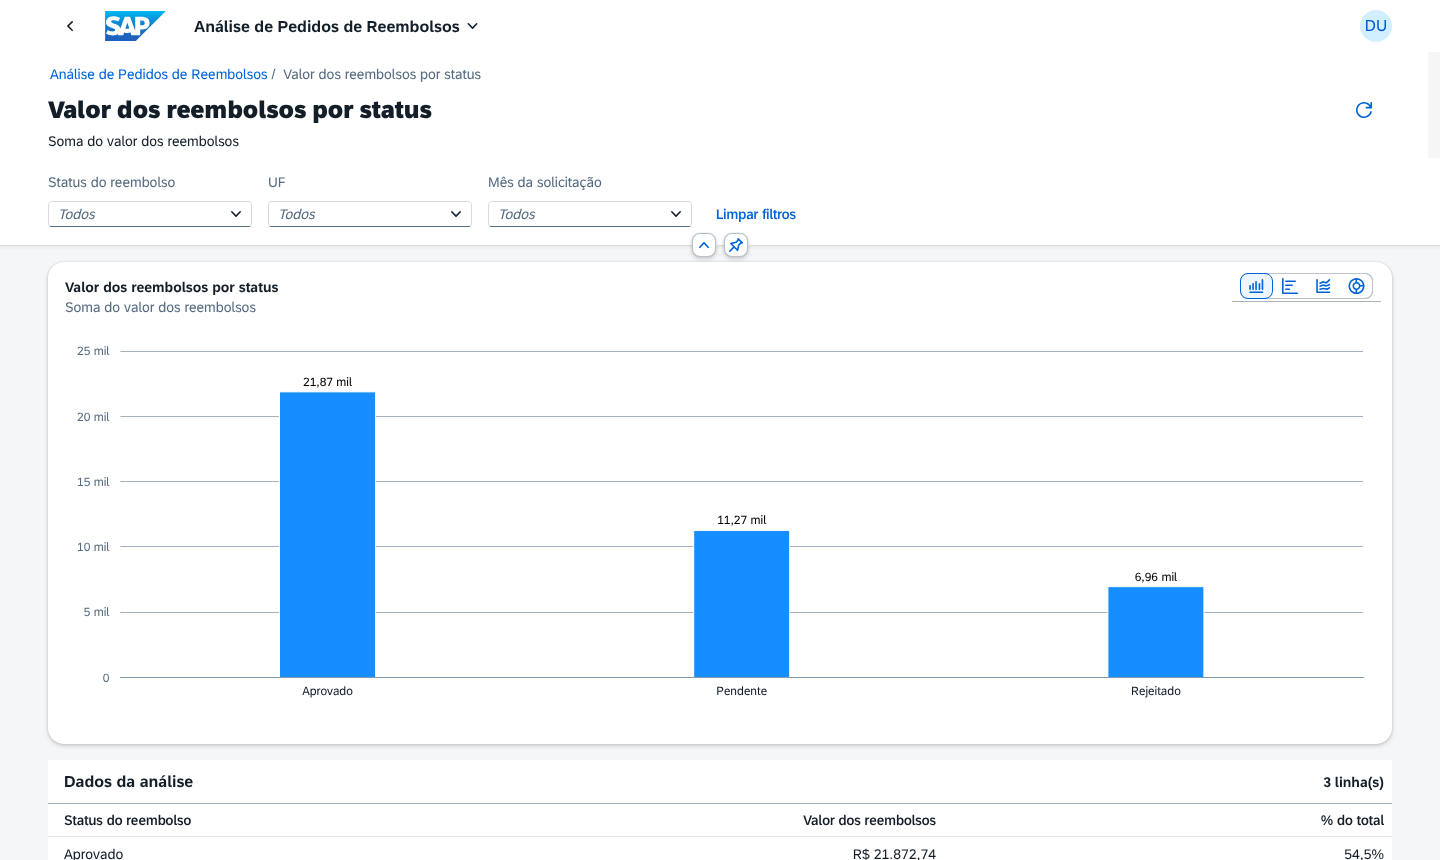
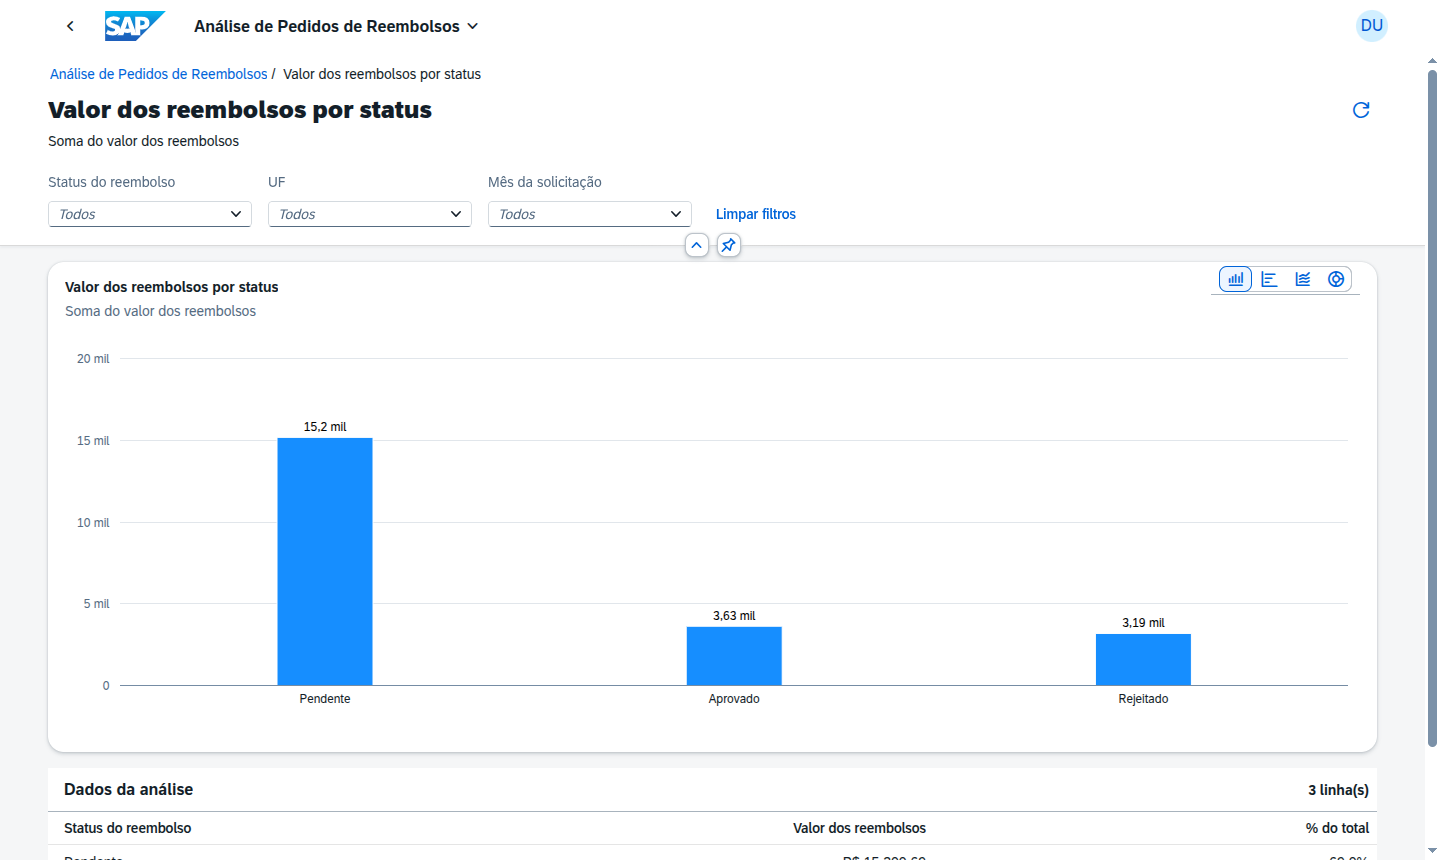
docs: capturas das análises com dados reais e demonstração completa
Capturas dos quatro painéis de análise e de um detalhe com os dados
reais do SAP BTP, ABAP environment. A seção "Demonstração" do README
passa a mostrar os fluxos executados: cadastro de cliente com ViaCEP,
item de estoque, pedido do rascunho à finalização, cancelamento com
pagamento aprovado, decisão do reembolso e as análises.

diff --git a/README.md b/README.md
@@ -102,29 +102,58 @@ On-Premise completo, com limitações e checklist, está na
 
 ## Demonstração
 
-Telas capturadas no [launchpad local](#launchpad-local) (`ui5/launchpad`). As apps de gestão usam os
-dados reais do sistema BTP ABAP (dados de demonstração do `ZCL_PC_SETUP`); as de análise, os dados
-de demonstração do `npm run start-mock`.
+Telas capturadas no [launchpad local](#launchpad-local) (`ui5/launchpad`) com os **dados reais do SAP BTP,
+ABAP environment** (dados de demonstração do `ZCL_PC_SETUP`), executando os fluxos completos das apps.
 
 <p align="center">
   <img src="assets/launchpad.png" alt="Launchpad local com os oito tiles: quatro de gestão e quatro de análise" width="900">
 </p>
 
-| Pedidos de Compras | Object Page do pedido |
-| :----------------: | :-------------------: |
-| <img src="assets/pedidos.png" alt="Lista de pedidos" width="440"> | <img src="assets/pedido-object-page.png" alt="Object Page de um pedido finalizado" width="440"> |
+### Gestão de Clientes: cadastro com consulta ao ViaCEP
 
-| Gestão de Clientes | Gestão de Estoque |
-| :----------------: | :---------------: |
-| <img src="assets/clientes.png" alt="Lista de clientes" width="440"> | <img src="assets/estoque.png" alt="Lista de itens de estoque" width="440"> |
+| Lista de clientes | Endereço preenchido pelo ViaCEP | Cliente cadastrado |
+| :---------------: | :-----------------------------: | :----------------: |
+| <img src="assets/clientes.png" alt="Lista de clientes" width="290"> | <img src="assets/cliente-endereco-viacep.png" alt="Endereço do CEP 01310-100 preenchido pelo ViaCEP" width="290"> | <img src="assets/cliente-object-page.png" alt="Object Page da cliente cadastrada" width="290"> |
 
-| Gestão de Reembolsos | Análise de Itens do Estoque |
-| :------------------: | :-------------------------: |
-| <img src="assets/reembolsos.png" alt="Lista de reembolsos" width="440"> | <img src="assets/analise-estoque.png" alt="Painel da Análise de Itens do Estoque" width="440"> |
+### Gestão de Estoque
 
-| Análise de Pedidos de Reembolsos | Detalhe de uma análise |
-| :------------------------------: | :--------------------: |
-| <img src="assets/analise-reembolsos.png" alt="Painel da Análise de Pedidos de Reembolsos" width="440"> | <img src="assets/analise-detalhe.png" alt="Detalhe da análise Valor dos reembolsos por status" width="440"> |
+| Lista de itens | Item cadastrado (SKU gerado no Save) |
+| :------------: | :----------------------------------: |
+| <img src="assets/estoque.png" alt="Lista de itens de estoque" width="440"> | <img src="assets/item-object-page.png" alt="Object Page do item cadastrado" width="440"> |
+
+### Pedidos de Compras: do rascunho à finalização
+
+| Lista de pedidos | Rascunho com itens inline | Efetuar Pagamento |
+| :--------------: | :-----------------------: | :---------------: |
+| <img src="assets/pedidos.png" alt="Lista de pedidos" width="290"> | <img src="assets/pedido-rascunho.png" alt="Pedido em rascunho com dois itens" width="290"> | <img src="assets/pedido-pagamento.png" alt="Diálogo da action Efetuar Pagamento" width="290"> |
+
+| Pedido finalizado (snapshot do cliente) | Itens, pagamento e finalização |
+| :-------------------------------------: | :----------------------------: |
+| <img src="assets/pedido-object-page.png" alt="Pedido finalizado com o snapshot do cliente" width="440"> | <img src="assets/pedido-itens-pagamento.png" alt="Itens, pagamento aprovado com cartão mascarado e finalização" width="440"> |
+
+### Cancelamento com pagamento aprovado e Gestão de Reembolsos
+
+| Cancelar pedido (motivo) | Pedido em processamento de reembolso | Lista de reembolsos |
+| :----------------------: | :----------------------------------: | :-----------------: |
+| <img src="assets/pedido-cancelamento.png" alt="Diálogo Cancelar pedido com motivo" width="290"> | <img src="assets/pedido-reembolso-pendente.png" alt="Pedido com status Processando reembolso" width="290"> | <img src="assets/reembolsos.png" alt="Lista de reembolsos" width="290"> |
+
+| Solicitação pendente | Aprovar reembolso (motivo da decisão) | Reembolso aprovado |
+| :------------------: | :-----------------------------------: | :----------------: |
+| <img src="assets/reembolso-object-page.png" alt="Reembolso pendente" width="290"> | <img src="assets/reembolso-aprovacao.png" alt="Diálogo Aprovar reembolso" width="290"> | <img src="assets/reembolso-aprovado.png" alt="Reembolso aprovado" width="290"> |
+
+### Análises
+
+| Análise de Pedidos de Compras | Análise de Clientes |
+| :---------------------------: | :-----------------: |
+| <img src="assets/analise-pedidos.png" alt="Painel da Análise de Pedidos de Compras" width="440"> | <img src="assets/analise-clientes.png" alt="Painel da Análise de Clientes" width="440"> |
+
+| Análise de Itens do Estoque | Análise de Pedidos de Reembolsos |
+| :-------------------------: | :------------------------------: |
+| <img src="assets/analise-estoque.png" alt="Painel da Análise de Itens do Estoque" width="440"> | <img src="assets/analise-reembolsos.png" alt="Painel da Análise de Pedidos de Reembolsos" width="440"> |
+
+<p align="center">
+  <img src="assets/analise-detalhe.png" alt="Detalhe da análise Valor dos reembolsos por status" width="700">
+</p>
 
 ---
 
@@ -816,8 +845,8 @@ Eles substituem o app único `analise-compras` (BSP `ZPC_ANALISE`, tile `ZPCAnal
 deve ser removido do sistema onde já foi implantado. Os cenários, a estrutura e o deploy estão em
 [`ui5/README.md`](ui5/README.md#apps-de-análise-freestyle). Para ter dados nos gráficos, carregue os
 dados de demonstração (`ZCL_PC_SETUP`). Os apps passam no ESLint, no `ui5 build` e na suíte QUnit, e
-foram testados no launchpad local com o mock server; ainda precisam ser implantados e verificados em
-execução no sistema.
+foram verificados no launchpad local com o mock server e com os dados reais do SAP BTP, ABAP environment
+(ver [Demonstração](#demonstração)).
 
 ---
 
